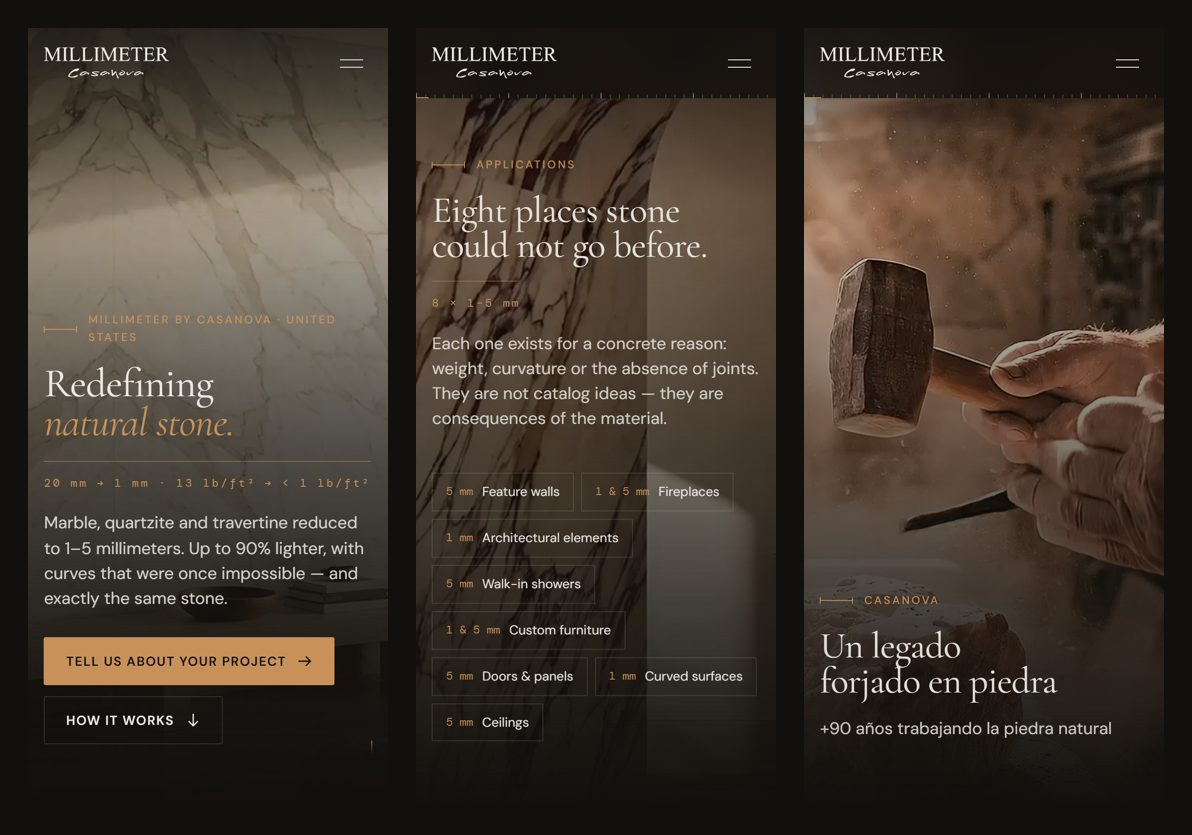
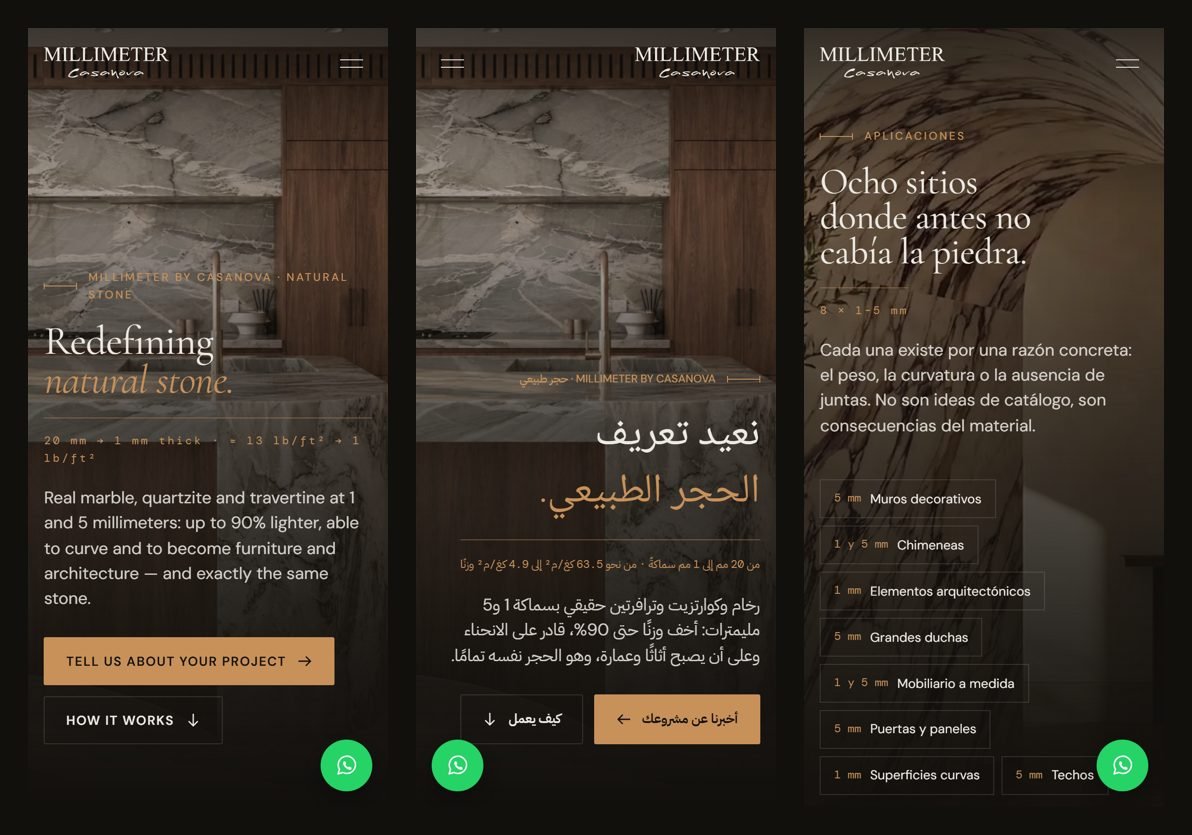
docs: refresh README for the global, trilingual site

diff --git a/README.md b/README.md
@@ -1,11 +1,11 @@
 <div align="center">
 
-<img src=".github/assets/banner.jpg" alt="MILLIMETER by Casanova — home page hero with a full-height Calacatta marble wall" width="100%" />
+<img src=".github/assets/banner.jpg" alt="MILLIMETER by Casanova — split home hero: headline beside a kitchen island in grey-green natural stone" width="100%" />
 
-# MILLIMETER by Casanova — USA
+# MILLIMETER by Casanova
 
-**A cinematic, trilingual website for a natural-stone brand: marble, quartzite and travertine at 1–5 mm.**
-<br/>Scroll-driven video, editorial typography and a hardened Node edge, built to load fast and rank well.
+**The global website of a natural-stone brand — marble, quartzite and travertine at 1 and 5 mm — in English, Spanish and right-to-left Arabic.**
+<br/>Scroll-driven video, architectural data visualisation, editorial typography and a hardened Node edge, built to load fast and rank well.
 
 [![Live preview](https://img.shields.io/badge/Live_preview-View_site-c8935a?style=for-the-badge&labelColor=12100d)](https://kin9zeus.github.io/Millimeter-USA/)
 &nbsp;
@@ -27,12 +27,12 @@
 
 ## Overview
 
-The US site for **MILLIMETER by Casanova**, a company that slices real natural stone down to 1–5 mm so it can go on curved walls, ceilings, doors and furniture. The brief asked for a luxury, image-led experience with motion on every page. It also had to be fast, accessible, secure, and easy to find in classic search engines and AI answer engines.
+The parent site of **MILLIMETER by Casanova**, a company that slices real natural stone down to 1 and 5 mm so it can go on curved walls, ceilings, doors and furniture, with commercial presence in the United States, Spain, the United Arab Emirates and Colombia. The brief asked for a luxury, image-led experience with motion on every page. It also had to be fast, accessible, secure, verifiable in every technical claim, and easy to find in classic search engines and AI answer engines.
 
 The result is a static-first Astro site: every page is prerendered to HTML, and only the two form endpoints run on the server. On top of that sits a motion layer that turns short video clips into frame sequences you scrub with the scroll wheel, plus a small custom Node server that adds the security, caching and compression that hosting platforms don't give you by default.
 
 <div align="center">
-  <img src=".github/assets/scroll.webp" alt="Scrolling the home page: the hero video advances frame by frame with the scroll" width="88%" />
+  <img src=".github/assets/scroll.webp" alt="Scrolling the Applications page: the hero video advances frame by frame with the scroll" width="88%" />
   <br/><sub>Hero video scrubbed by the scroll, not autoplayed: it moves only when the visitor moves.</sub>
 </div>
 
@@ -40,21 +40,23 @@ The result is a static-first Astro site: every page is prerendered to HTML, and 
 
 | | |
 |---|---|
-| 🎞 **Scroll-driven video** | Every page hero is a ≤ 6 s clip, exported as WebP frame sequences (16:9 desktop and 9:16 mobile crops) and painted on a `<canvas>` by a GSAP ScrollTrigger scrub. There are no autoplaying or looping videos, frames load coarse-to-fine, and the mobile variant is chosen per aspect ratio. |
+| 🎞 **Scroll-driven video** | Page heroes are ≤ 6 s clips, exported as WebP frame sequences (16:9 desktop and 9:16 mobile crops) and painted on a `<canvas>` by a GSAP ScrollTrigger scrub. There are no autoplaying or looping videos, frames load coarse-to-fine, and the mobile variant is chosen per aspect ratio. Portrait photography gets a **split hero** instead of being upscaled into a wide frame. |
+| 📐 **Architectural data visuals** | An axonometric shop drawing of three volumes of the same stone at true relative thickness (20 : 5 : 1), with real stone texture and section hatching, that opens up on scroll; a silica range chart built as an accessible table, with figures and a source link from the OSHA–NIOSH Hazard Alert; and a dotted Natural Earth world map of quarries, workshops and markets, generated at build time into a single SVG path. |
 | ⚡ **Performance first** | The pages are prerendered HTML. AVIF/WebP images come out of `astro:assets` + sharp, fonts are self-hosted and preloaded, and text is precompressed with Brotli and Gzip. The motion bundle waits for the first paint or the first interaction, and `content-visibility` skips work for off-screen sections. |
-| 🌍 **Trilingual i18n** | English, Spanish and French with typed dictionaries that share one shape and localized slugs (`/technology`, `/es/tecnologia`, `/fr/technologie`). `hreflang` clusters cover every page, and a trilingual 404 handles misses. |
+| 🌍 **Trilingual i18n with RTL** | English, Spanish and Arabic with typed dictionaries that share one shape, localized slugs (`/technology`, `/es/tecnologia`, `/ar/technology`) and `hreflang` clusters on every page. Arabic ships right-to-left: `dir="rtl"`, logical CSS properties, mirrored arrows, motion and progress bars, Naskh + Plex Sans Arabic loaded only for Arabic glyphs, and no letter-spacing or synthetic italics that would break the script. Units follow the reader: imperial first in English, metric only in Spanish and Arabic. |
 | 🔎 **SEO + GEO** | A JSON-LD graph per page (Organization, LocalBusiness, Person, WebSite, WebPage, Breadcrumb, FAQ, ItemList), a sitemap with alternates, `llms.txt`, and a `robots.txt` that explicitly lets AI search engines read and cite the site. |
 | 🛡 **Hardened edge** | Strict CSP with build-time SHA-256 hashes of inline scripts, plus HSTS, COOP/CORP, Permissions-Policy and canonical-host and HTTPS redirects. Path-traversal-safe static serving with ETag + Range support for iOS media. |
 | ♿ **Accessible motion** | Built to WCAG 2.2 AA, with skip links, visible focus, labelled controls and AA contrast. Animation runs by default, a footer switch turns it off for the visitor (remembered across visits), and the site falls back to the still version on Save-Data or 2G connections. |
+| 💬 **Contact that never gets in the way** | A floating WhatsApp button in brand green on every page. It lifts above the cookie notice, steps aside while a form field has focus, and tucks into the margin whenever text or a control is underneath, so it never covers content. Every WhatsApp control uses the same AA-contrast green style. |
 | ✉ **Forms without a database** | Contact and careers forms work without JavaScript and are enhanced when it loads. They are protected by a honeypot, a minimum fill time, rate limiting, same-origin checks and PDF validation, and sent through the Resend HTTP API. |
 | 🔁 **Two deploy targets, one codebase** | The full build runs on Railway (Node). A static, `noindex` client preview runs on GitHub Pages, where the base path comes from `PUBLIC_SITE_URL`. |
 
 ## Screenshots
 
 <div align="center">
-  <img src=".github/assets/screens.jpg" alt="Desktop pages: Technology hero, Materials library, Projects hero and the Casanova legacy band" width="100%" />
+  <img src=".github/assets/screens.jpg" alt="Desktop: the axonometric thickness drawing, the silica range chart, the world map of quarries, workshops and markets, and the Arabic right-to-left home hero" width="100%" />
   <br/><br/>
-  <img src=".github/assets/mobile.jpg" alt="Mobile views: Home, Applications and the Spanish Casanova page" width="70%" />
+  <img src=".github/assets/mobile.jpg" alt="Mobile views: English home, Arabic home and the Spanish Applications page" width="70%" />
 </div>
 
 ## Lighthouse
@@ -65,9 +67,10 @@ Lab scores for the production build (`npm run build && npm start`):
 |---|---|:-:|:-:|:-:|:-:|
 | Home | Desktop | **100** | **100** | **100** | **100** |
 | Technology | Desktop | **100** | **100** | **100** | **100** |
-| Casanova (ES) | Desktop | **100** | **100** | **100** | **100** |
-| Home | Mobile | **96** | **100** | **100** | **100** |
-| Technology | Mobile | **96** | **100** | **100** | **100** |
+| Home (Arabic, RTL) | Desktop | **99** | **100** | **100** | **100** |
+| Home | Mobile | **95** | **100** | **100** | **100** |
+| Home (Spanish) | Mobile | **95** | **100** | **100** | **100** |
+| Technology (Arabic) | Mobile | **90** | **100** | **100** | **100** |
 
 ## Architecture
 
@@ -108,17 +111,17 @@ flowchart LR
 
 ```text
 src/
-├─ pages/            thin routes per locale (EN at root, /es, /fr) · sitemap.xml · robots.txt · llms.txt · api/*
+├─ pages/            thin routes per locale (EN at root, /es, /ar) · sitemap.xml · robots.txt · llms.txt · api/*
 ├─ views/            one view per page, rendered for any locale
-├─ components/       Header, Footer, MediaHero, Form, CookieNotice, sections/*, legal/*
-├─ i18n/             en.ts · es.ts · fr.ts (typed, same shape) · routes.ts (localized slugs + base path)
+├─ components/       Header, Footer, MediaHero, WorldMap, WhatsAppFloat, Icon, Form, CookieNotice, sections/*, legal/*
+├─ i18n/             en.ts · es.ts · ar.ts (typed, same shape) · routes.ts (localized slugs, text direction, base path)
 ├─ layouts/          Base.astro: SEO, JSON-LD graph, hreflang, deferred motion layer
 ├─ scripts/          main.ts (GSAP/Lenis motion layer) · sequence.ts (canvas frame player)
 ├─ lib/              schema.ts (JSON-LD builders) · server/forms.ts (validation, rate limit, Resend)
-├─ data/             materials catalog · media registry
+├─ data/             materials catalog · media registry · sites (map) · world-dots (generated)
 └─ styles/           global.css: design tokens, fluid type scale, motion modes
 public/              icons, manifest, security.txt, motion-mode.js, media/seq/<page>/{d,m}
-scripts/             compress.mjs · make-icons.mjs · pages-prepare.mjs · process-media.py · video-frames.py
+scripts/             compress.mjs · make-icons.mjs · pages-prepare.mjs · process-media.py · video-frames.py · world-map.mjs
 server.mjs           production server: static + API + security headers + redirects
 ```
 
@@ -138,7 +141,8 @@ npm run dev               # http://localhost:4321
 | `npm run check` | `astro check`: type-checks `.astro` and `.ts` |
 | `npm run build:pages` | Static build adapted for GitHub Pages (directory indexes, `.nojekyll`) |
 | `npm run frames` | Rebuilds scroll frame sequences from the video masters (needs FFmpeg + Pillow) |
-| `npm run media` | Rebuilds the optimized photo set from the raw source folders |
+| `npm run media` | Rebuilds the optimized photo set from the raw source folders (metadata stripped, never upscaled) |
+| `node scripts/world-map.mjs` | Regenerates the dotted world map from Natural Earth land data |
 
 ### Environment
 
